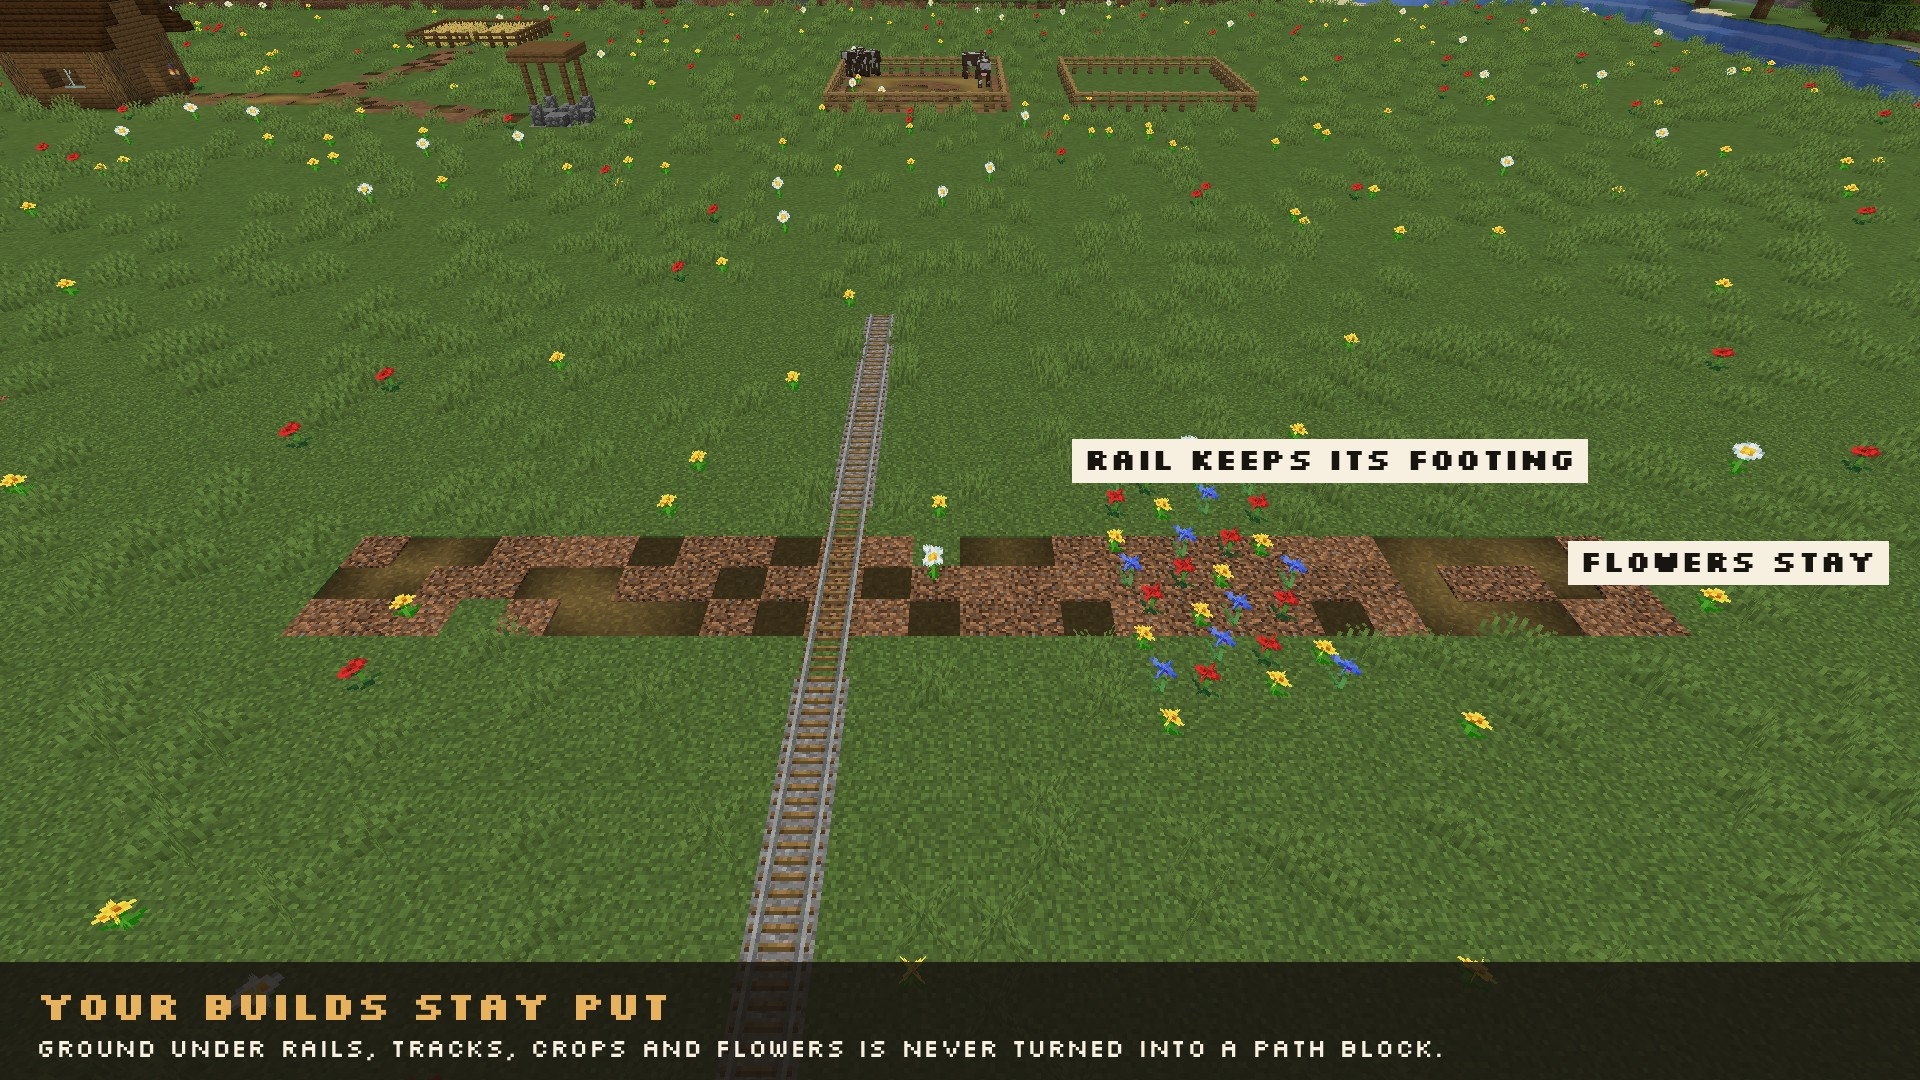
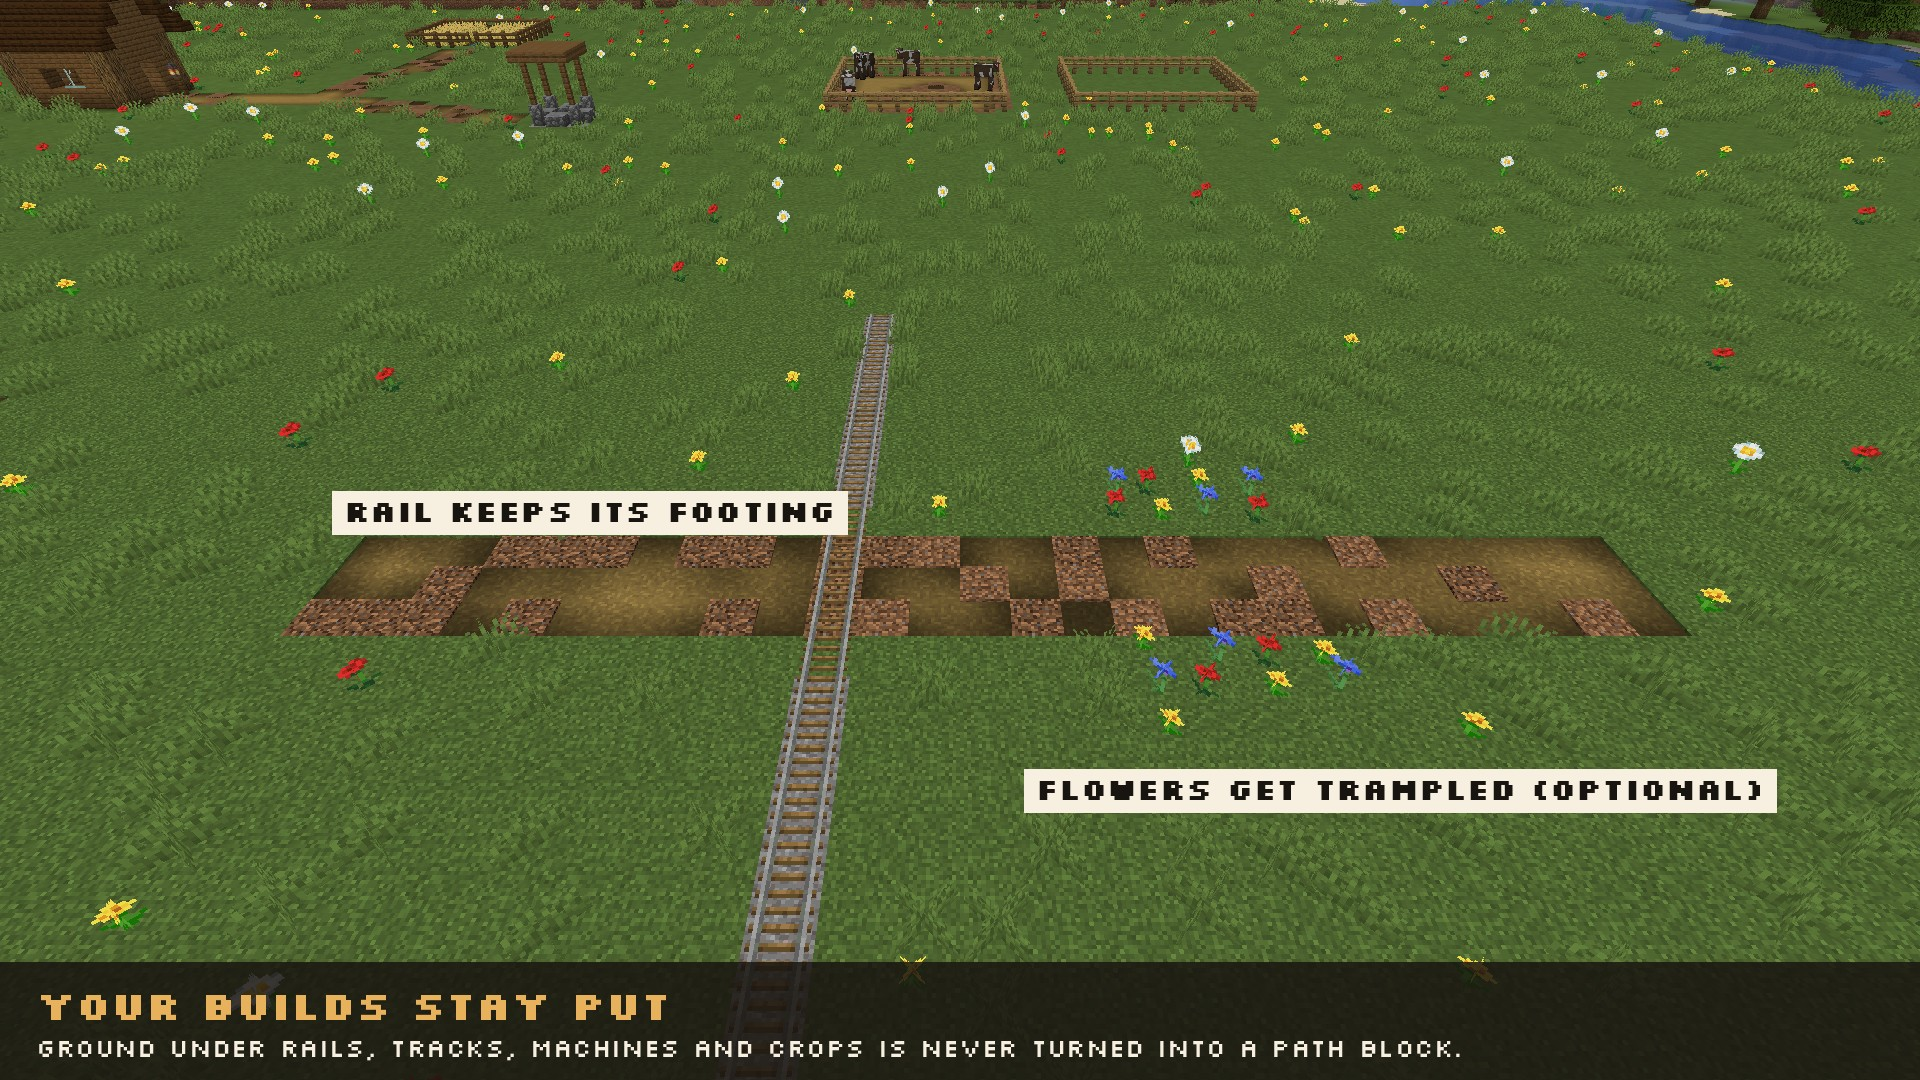
docs: flowers are trampled by default

diff --git a/scripts/gallery.py b/scripts/gallery.py
@@ -130,8 +130,9 @@ if __name__ == "__main__":
     single("gaits", "YOUR PACE DECIDES", "The same 300 trips on each line.", "06-sprint-walk-sneak.jpg", labels=[
         ((480, 318), "sprinting: twice the wear", "lm"), ((480, 458), "walking", "lm"),
         ((480, 640), "sneaking or leather boots: no trace", "lm")])
-    single("safe", "YOUR BUILDS STAY PUT", "Ground under rails, tracks, crops and flowers is never turned into a path block.",
-           "07-rails-and-flowers.jpg", labels=[((1330, 470), "rail keeps its footing", "mb"), ((1580, 560), "flowers stay", "lm")])
+    single("safe", "YOUR BUILDS STAY PUT", "Ground under rails, tracks, machines and crops is never turned into a path block.",
+           "07-rails-and-flowers.jpg", labels=[((590, 522), "rail keeps its footing", "mb"),
+                                               ((1400, 800), "flowers get trampled (optional)", "mb")])
     single("stages", "FOUR STAGES", "Grass regrows over plain dirt. Coarse dirt and paths stay until you dig or hoe them.",
            "08-stages.jpg", labels=[((320, 470), "grass", "mb"), ((720, 470), "dirt", "mb"), ((1108, 470), "coarse dirt", "mb"),
                                     ((1480, 470), "dirt path", "mb")])

diff --git a/docs/MODRINTH.md b/docs/MODRINTH.md
@@ -14,7 +14,7 @@ Inspired by [TFC Desire Paths](https://modrinth.com/mod/tfc-desire-paths), built
 - Grass grows back over plain dirt by itself, so a route only turns into a lasting path if it keeps being used. Coarse dirt and paths stay until you dig or hoe them.
 - **Jumping** counts: the block you land on takes a four times heavier step, so sprint-jumping everywhere still wears a path in about as fast as sprinting.
 - **Sprinting** wears the ground twice as fast. **Sneaking** leaves no trace, and neither do **leather boots**.
-- Tall grass and ferns are trampled before the ground below them wears.
+- Tall grass, ferns and **flowers** are trampled before the ground below them wears. Want your flower beds safe? Turn off `trampleFlowers`.
 - Livestock, horses, villagers, golems and other heavy mobs make paths too (at a quarter of the player rate), so pens and village routes get worn in over time. Respects the `mobGriefing` game rule.
 - **Vehicles leave ruts**: with [Sable](https://modrinth.com/mod/sable) installed, the wheels of [Create Aeronautics](https://modrinth.com/mod/create-aeronautics) / Offroad vehicles wear two tracks, and hulls or sleds wear whatever they are dragged across.
 - Podzol and mycelium wear to dirt as well.
@@ -44,7 +44,7 @@ Too fast or too slow for your pack? `chanceMultiplier` scales everything.
 
 ## Plays nice with the rest of your pack
 
-- **Never removes support**: ground under rails, Create tracks, machines, crops, flowers or anything else is only swapped for another full, plant-friendly block — a path block only ever forms under open air.
+- **Never removes support**: ground under rails, Create tracks, machines, crops, saplings or anything else is only swapped for another full, plant-friendly block — a path block only ever forms under open air.
 - **[Sable](https://modrinth.com/mod/sable) / [Create Aeronautics](https://modrinth.com/mod/create-aeronautics)**: vehicles wear the ground they drive on, while decks and gardens *on* airships and other physics contraptions are left untouched by default (`wearOnContraptions`).
 - **[Dynamic Trees](https://modrinth.com/mod/dynamictrees)**: root soil blocks are never touched.
 - **Farmland** keeps its vanilla trampling behaviour.
@@ -55,7 +55,7 @@ Too fast or too slow for your pack? `chanceMultiplier` scales everything.
 
 ## Configuration
 
-`config/worn_ground-common.toml`: toggle players / mobs / vehicles, global chance multiplier, sprint, landing, mob and vehicle multipliers, sneaking, trampling, `mobGriefing`, wear on contraption decks.
+`config/worn_ground-common.toml`: toggle players / mobs / vehicles, global chance multiplier, sprint, landing, mob and vehicle multipliers, sneaking, trampling (plants and flowers separately), `mobGriefing`, wear on contraption decks.
 
 ## Datapacks
 
@@ -84,5 +84,6 @@ Everything is data-driven.
 | --- | --- |
 | `worn_ground:path_makers` (entity type) | Mobs that wear the ground. Players always do. |
 | `worn_ground:trampleable` (block) | Plants that are flattened before the ground wears. |
+| `worn_ground:trampleable_flowers` (block) | Flowers that are flattened too while `trampleFlowers` is on. |
 | `worn_ground:soft_soles` (item) | Boots that prevent wear. |
 | `worn_ground:wheels` (block) | Blocks whose tire touches the ground beside them (Offroad wheel mounts). |
